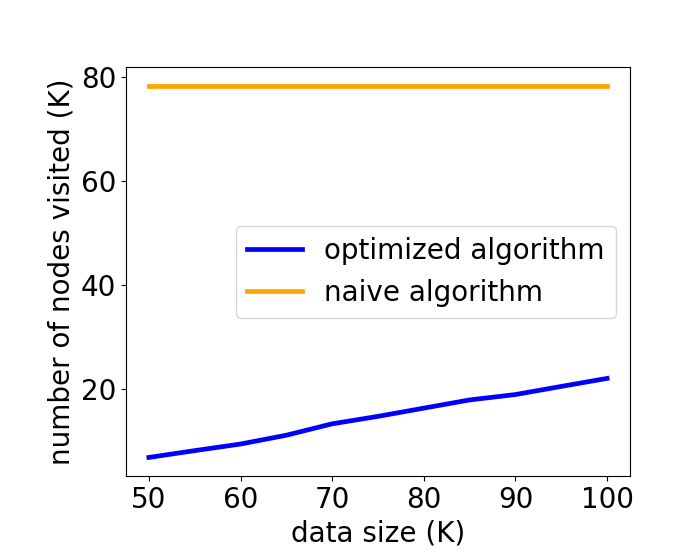
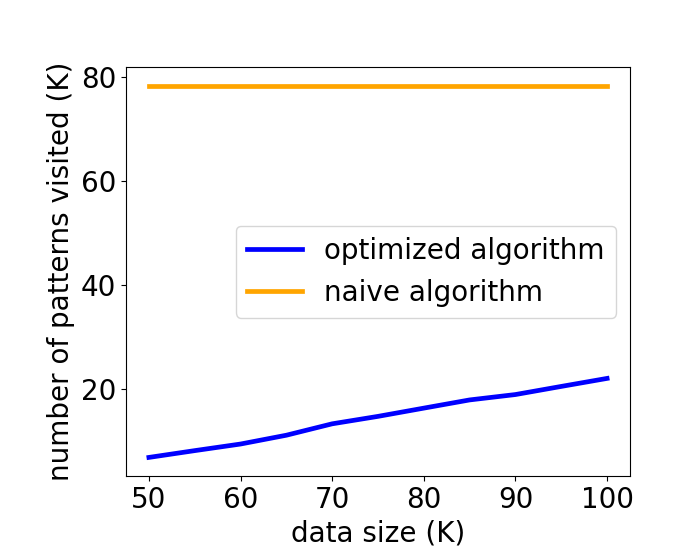
low acc, adult, data size

Changed region(s): [[0.06, 0.0911, 0.12, 0.8804]]

diff --git a/Coding/Experiments/AccuracyFairness/AdultData/data_size_2_20210629.py b/Coding/Experiments/AccuracyFairness/AdultData/data_size_2_20210629.py
@@ -14,7 +14,7 @@ x axis: data sizes: 100, 500, 1000, 5000, 10000, 40000
 
 Other parameters:
 selected_attributes = ['age', 'education', 'marital-status', 'race', 'gender', 'workclass']
-threshold of cardinality Thc = 30
+size threshold Thc = 30
 threshold of minority group accuracy: overall acc - 20
 
 """
@@ -104,7 +104,7 @@ def GridSearch(original_data_file_pathpre, datasize, thc, selected_attributes):
     return execution_time1, num_calculation1, execution_time2, num_calculation2, pattern_with_low_accuracy1, overall_acc, tha
 
 
-#selected_attributes = ['age', 'education', 'marital-status', 'race', 'gender', 'workclass', 'relationship']
+# selected_attributes = ['age', 'education', 'marital-status', 'race', 'gender', 'workclass', 'relationship']
 selected_attributes = ['age', 'education', 'marital-status', 'race', 'gender', 'workclass']
 
 data_sizes = [50000, 55000, 60000, 65000, 70000, 75000, 80000, 85000, 90000, 95000, 100000]
@@ -172,7 +172,7 @@ for n in range(len(data_sizes)):
     output_file.write('{} {} {}\n'.format(data_sizes[n], num_patterns_checked1[n], num_patterns_checked2[n]))
 
 
-output_file.write("\n\noverall accuracy and threshold of accuracy\n")
+output_file.write("\n\noverall accuracy and delta fairness value\n")
 for n in range(len(data_sizes)):
     output_file.write('{} {}\n'.format(overall_acc_list[n], tha_list[n]))
 
@@ -198,7 +198,7 @@ plt.plot(data_sizes, num_patterns_checked2, label="naive algorithm", color='oran
 plt.xlabel('data size (K)')
 plt.xticks([50000, 60000, 70000, 80000, 90000, 100000])
 ax.xaxis.set_major_formatter(FuncFormatter(thousands_formatter))
-plt.ylabel('number of nodes visited (K)')
+plt.ylabel('number of patterns visited (K)')
 ax.yaxis.set_major_formatter(FuncFormatter(thousands_formatter))
 plt.legend()
 plt.subplots_adjust(bottom=0.15, left=0.18)

diff --git a/Coding/Experiments/AccuracyFairness/AdultData/data_size_1_20210201.py b/Coding/Experiments/AccuracyFairness/AdultData/data_size_1_20210201.py
@@ -14,7 +14,7 @@ x axis: data sizes: 100, 500, 1000, 5000, 10000, 40000
 
 Other parameters:
 selected_attributes = ['age', 'education', 'marital-status', 'race', 'gender', 'workclass']
-threshold of cardinality Thc = 30
+size threshold Thc = 30
 threshold of minority group accuracy: overall acc - 20
 
 """
@@ -180,7 +180,7 @@ plt.plot(data_sizes, num_patterns_checked2, label="naive algorithm", color='oran
 plt.xlabel('data size (K)')
 plt.xticks([40000, 50000, 60000, 70000, 80000, 90000, 100000])
 ax.xaxis.set_major_formatter(FuncFormatter(thousands_formatter))
-plt.ylabel('number of nodes visited (K)')
+plt.ylabel('number of patterns visited (K)')
 ax.yaxis.set_major_formatter(FuncFormatter(thousands_formatter))
 plt.legend()
 plt.subplots_adjust(bottom=0.15, left=0.18)

diff --git a/Coding/Experiments/AccuracyFairness/AdultData/data_size_0.py b/Coding/Experiments/AccuracyFairness/AdultData/data_size_0.py
@@ -14,7 +14,7 @@ x axis: data sizes: 100, 500, 1000, 5000, 10000, 40000
 
 Other parameters:
 selected_attributes = ['age', 'education', 'marital-status', 'race', 'gender', 'workclass']
-threshold of cardinality Thc = 30
+size threshold Thc = 50
 threshold of minority group accuracy: overall acc - 20
 
 """
